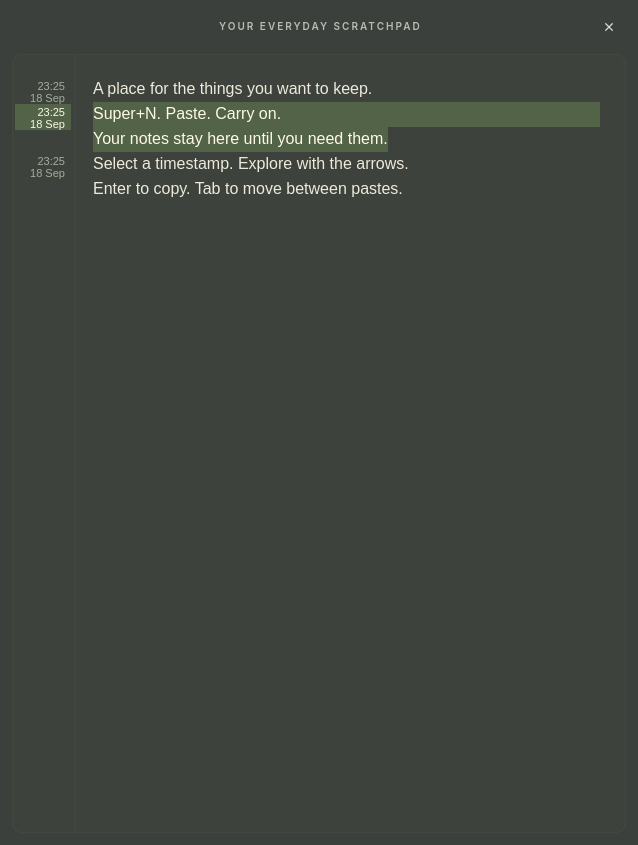
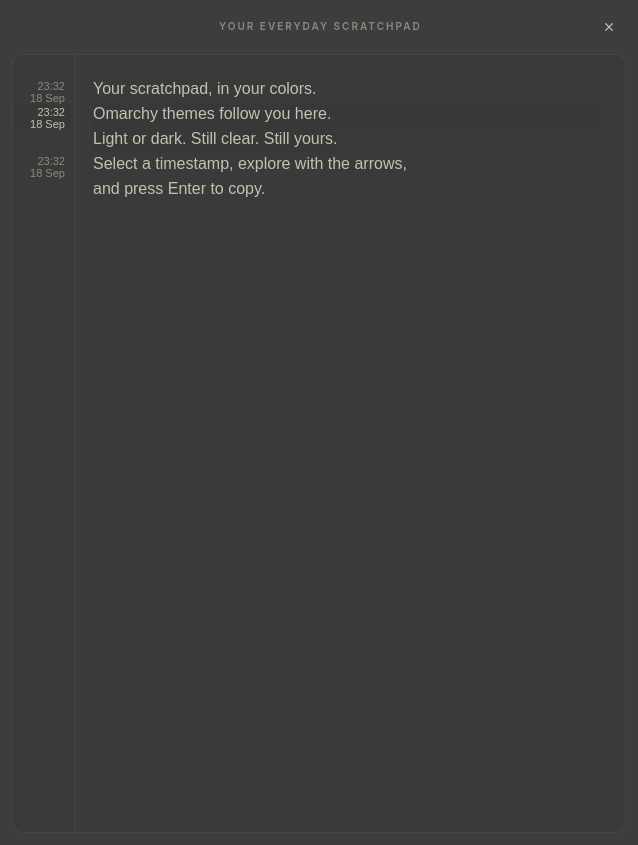
Follow the active Omarchy theme
Reload palette changes while running and keep note editing state intact.

Assisted-by: OpenAI Codex

Changed region(s): [[0.0, 0.0923, 0.953, 0.2462], [0.0596, 0.1846, 0.1191, 0.2154]]

diff --git a/style.css b/style.css
@@ -1,6 +1,6 @@
 window.perfect-note {
-    background: rgba(32, 37, 34, 0.88);
-    color: #eee9db;
+    background: alpha(@pn_background, 0.88);
+    color: @pn_foreground;
 }
 .perfect-note headerbar {
     background: transparent;
@@ -10,40 +10,40 @@ window.perfect-note {
     padding: 4px 12px;
 }
 .perfect-note .eyebrow {
-    color: #b8bbae;
+    color: @pn_muted;
     font-size: 10px;
     font-weight: 600;
     letter-spacing: 2px;
 }
 .perfect-note button {
-    background: #303730;
-    color: #dedfd2;
-    border: 1px solid #424b40;
+    background: @pn_surface;
+    color: @pn_foreground;
+    border: 1px solid @pn_border;
     border-radius: 8px;
     padding: 7px 13px;
     box-shadow: none;
     text-shadow: none;
     font-size: 12px;
 }
-.perfect-note button:hover { background: #414a40; }
+.perfect-note button:hover { background: mix(@pn_surface, @pn_foreground, 0.12); }
 .perfect-note headerbar button { background: transparent; border: 0; padding: 5px; }
-.perfect-note .error { color: #edafa0; font-size: 12px; margin: 0 20px 10px; }
+.perfect-note .error { color: @pn_error; font-size: 12px; margin: 0 20px 10px; }
 .perfect-note .paper {
     margin: 0 12px 12px;
-    border: 1px solid #42483d;
+    border: 1px solid @pn_border;
     border-radius: 10px;
-    background: rgba(72, 82, 58, 0.16);
+    background: alpha(@pn_surface, 0.16);
 }
 .perfect-note textview, .perfect-note textview text {
     background: transparent;
-    color: #eee9db;
-    caret-color: #d5e5b7;
+    color: @pn_foreground;
+    caret-color: @pn_accent;
     font-family: "Liberation Sans", sans-serif;
     font-size: 16px;
 }
-.perfect-note textview text selection { background: #526347; color: #fff8e8; }
+.perfect-note textview text selection { background: @pn_selection; color: @pn_selected; }
 .perfect-note .placeholder {
     margin: 26px 24px 26px 94px;
-    color: #a4ad9a;
+    color: @pn_muted;
     font-size: 16px;
 }

diff --git a/perfect_note.py b/perfect_note.py
@@ -5,6 +5,7 @@ import os
 import signal
 import sys
 import tempfile
+import tomllib
 from pathlib import Path
 from datetime import datetime
 
@@ -18,6 +19,78 @@ from gi.repository import Gdk, Gio, GLib, GLibUnix, Graphene, Gtk, Pango
 
 APP_ID = "io.github.sagosand.PerfectNote"
 DATA_DIR = Path(os.environ.get("XDG_DATA_HOME", Path.home() / ".local/share")) / "perfect-note"
+
+
+DEFAULT_PALETTE = {
+    "background": "#202522", "foreground": "#eee9db", "surface": "#48523a",
+    "border": "#42483d", "muted": "#a4ad9a", "accent": "#d5e5b7",
+    "selection": "#526347", "selected": "#fff8e8", "error": "#edafa0",
+}
+
+
+def theme_paths():
+    state = Path(os.environ.get("XDG_STATE_HOME") or Path.home() / ".local/state")
+    config = Path(os.environ.get("XDG_CONFIG_HOME") or Path.home() / ".config")
+    return (state / "omarchy/current/theme/colors.toml", config / "omarchy/current/theme/colors.toml")
+
+
+def color_channels(color):
+    return tuple(int(color[index:index + 2], 16) / 255 for index in (1, 3, 5))
+
+
+def mix_color(start, end, amount):
+    return "#" + "".join(f"{round((a * (1 - amount) + b * amount) * 255):02x}" for a, b in zip(color_channels(start), color_channels(end)))
+
+
+def contrast(first, second):
+    def luminance(color):
+        channels = [value / 12.92 if value <= 0.04045 else ((value + 0.055) / 1.055) ** 2.4 for value in color_channels(color)]
+        return sum(value * weight for value, weight in zip(channels, (0.2126, 0.7152, 0.0722)))
+    a, b = sorted((luminance(first), luminance(second)))
+    return (b + 0.05) / (a + 0.05)
+
+
+def readable_color(color, background, fallback):
+    if contrast(color, background) >= 4.5:
+        return color
+    if contrast(fallback, background) >= 4.5:
+        return fallback
+    return max(("#000000", "#ffffff"), key=lambda value: contrast(value, background))
+
+
+def read_theme(paths):
+    for path in paths:
+        try:
+            raw = tomllib.loads(path.read_text(encoding="utf-8"))
+        except FileNotFoundError:
+            continue
+        except (OSError, ValueError):
+            return None
+        colors = {}
+        for key, value in raw.items():
+            color = Gdk.RGBA()
+            if isinstance(value, str) and color.parse(value):
+                colors[key] = "#" + "".join(f"{round(channel * 255):02x}" for channel in (color.red, color.green, color.blue))
+        def pick(*keys, default=None):
+            return next((colors[key] for key in keys if key in colors), default)
+        background = pick("background", "bg", "color0")
+        foreground = pick("foreground", "fg", "color7")
+        if not background or not foreground:
+            return None
+        accent = pick("accent", "blue", "color4", default=foreground)
+        selection = pick("selection", "selection_background", "color8", default=mix_color(background, accent, 0.35))
+        return {
+            "background": background,
+            "foreground": foreground,
+            "surface": pick("lighter_background", "lighter_bg", default=mix_color(background, foreground, 0.08)),
+            "border": mix_color(background, foreground, 0.22),
+            "muted": readable_color(pick("light_foreground", "light_fg", "muted", default=foreground), background, foreground),
+            "accent": readable_color(accent, background, foreground),
+            "selection": selection,
+            "selected": readable_color(pick("selection_foreground", default=foreground), selection, foreground),
+            "error": readable_color(pick("red", "color1", default=foreground), background, foreground),
+        }
+    return None
 
 
 def write_note(path, text):
@@ -60,21 +133,21 @@ class NoteView(Gtk.TextView):
             return
         visible = self.get_visible_rect()
         color = Gdk.RGBA()
-        color.parse("#42483d")
+        color.parse(self.owner.palette["border"])
         rect = Graphene.Rect()
         rect.init(62, visible.y, 1, visible.height)
         snapshot.append_color(color, rect)
-        color.parse("#a4ad9a")
+        color.parse(self.owner.palette["muted"])
         for paste, y in self.owner.stamp_layout():
             if y + 26 < visible.y or y > visible.y + visible.height:
                 continue
             if paste is self.owner.marked_paste:
-                color.parse("#526347")
+                color.parse(self.owner.palette["selection"])
                 rect.init(2, y - 2, 56, 26)
                 snapshot.append_color(color, rect)
-                color.parse("#fff8e8")
+                color.parse(self.owner.palette["selected"])
             else:
-                color.parse("#a4ad9a")
+                color.parse(self.owner.palette["muted"])
             date = datetime.fromisoformat(paste["at"])
             layout = self.create_pango_layout(date.strftime("%H:%M\n%d %b"))
             layout.set_font_description(Pango.FontDescription("Sans 7"))
@@ -89,8 +162,12 @@ class NoteView(Gtk.TextView):
 
 
 class PerfectNote(Gtk.Application):
-    def __init__(self, data_dir=DATA_DIR, application_id=APP_ID):
+    def __init__(self, data_dir=DATA_DIR, application_id=APP_ID, palette_paths=None):
         super().__init__(application_id=application_id, flags=Gio.ApplicationFlags.DEFAULT_FLAGS)
+        self.palette_paths = theme_paths() if palette_paths is None else palette_paths
+        self.palette = None
+        self.theme_source = 0
+        self.style_provider = None
         self.note_path = data_dir / "note.txt"
         self.state_path = data_dir / "note.json"
         self.pastes = []
@@ -115,7 +192,7 @@ class PerfectNote(Gtk.Application):
         self.save_source = 0
         self.dirty = False
         self.load_error = False
-        self.connect("shutdown", lambda *_: self.save())
+        self.connect("shutdown", self.shutdown)
 
     def do_activate(self):
         if self.window is None:
@@ -123,16 +200,42 @@ class PerfectNote(Gtk.Application):
         elif self.window.get_visible():
             self.hide()
             return
+        self.refresh_theme()
         self.prepare_line()
         self.window.present()
         self.editor.grab_focus()
         self.queue_gutter()
         GLib.idle_add(self.scroll_to_cursor)
 
+    def refresh_theme(self):
+        palette = read_theme(self.palette_paths) or self.palette or DEFAULT_PALETTE.copy()
+        if palette != self.palette:
+            definitions = "\n".join(f"@define-color pn_{key} {value};" for key, value in palette.items())
+            self.style_provider.load_from_data((definitions + "\n" + self.style_css).encode())
+            self.palette = palette
+            if self.window is not None:
+                self.editor.queue_draw()
+        return GLib.SOURCE_CONTINUE
+
+    def stop_theme(self):
+        if self.theme_source:
+            GLib.source_remove(self.theme_source)
+            self.theme_source = 0
+        if self.style_provider is not None:
+            Gtk.StyleContext.remove_provider_for_display(Gdk.Display.get_default(), self.style_provider)
+            self.style_provider = None
+
+    def shutdown(self, *_):
+        self.save()
+        self.stop_theme()
+
     def build_window(self):
-        provider = Gtk.CssProvider()
-        provider.load_from_path(str(Path(__file__).with_name("style.css")))
-        Gtk.StyleContext.add_provider_for_display(Gdk.Display.get_default(), provider, Gtk.STYLE_PROVIDER_PRIORITY_APPLICATION)
+        self.style_css = Path(__file__).with_name("style.css").read_text(encoding="utf-8")
+        self.style_provider = Gtk.CssProvider()
+        self.refresh_theme()
+        Gtk.StyleContext.add_provider_for_display(Gdk.Display.get_default(), self.style_provider, Gtk.STYLE_PROVIDER_PRIORITY_APPLICATION)
+        # Omarchy replaces the theme directory, so re-open the path on each check.
+        self.theme_source = GLib.timeout_add_seconds(2, self.refresh_theme)
         self.window = Gtk.ApplicationWindow(application=self, title="Perfect Note")
         self.window.set_default_size(638, 845)
         self.window.set_size_request(420, 440)

diff --git a/check.py b/check.py
@@ -24,10 +24,10 @@ sys.excepthook = callback_exception
 
 instances = 0
 
-def create(root, application_id=None):
+def create(root, application_id=None, palette_paths=()):
     global instances
     instances += 1
-    app = PerfectNote(root, application_id or f'io.github.sagosand.PerfectNote.Check{instances}')
+    app = PerfectNote(root, application_id or f'io.github.sagosand.PerfectNote.Check{instances}', palette_paths=palette_paths)
     app.set_flags(Gio.ApplicationFlags.NON_UNIQUE)
     app.register(None)
     app.build_window()
@@ -272,6 +272,7 @@ with tempfile.TemporaryDirectory(prefix='perfect-note-stamps-check-') as directo
     assert selected() == 'alpha\n\nbeta', 'Left from the first word returns to the segment'
     nav.hide()
     for instance in (app, app2, app3, nav):
+        instance.stop_theme()
         instance.window.destroy()
 print('PASS: migration, one stamp per paste, Unicode, position tracking, delete/undo/redo, autosave, restart, backups, errors, segment/word navigation, copy, delete, click, vertical/wrapped navigation, Tab cycling')
 
@@ -536,7 +537,61 @@ with tempfile.TemporaryDirectory(prefix='perfect-note-audit-') as directory:
         if app.gutter_source:
             GLib.source_remove(app.gutter_source)
             app.gutter_source = 0
+        app.stop_theme()
         app.window.destroy()
 print(f'PASS: audit regressions, delayed clipboard, safe persistence, Unicode, grouped undo, and {cycles} randomized edit/undo/redo cycles')
+
+with tempfile.TemporaryDirectory(prefix='perfect-note-theme-check-') as directory:
+    from perfect_note import DEFAULT_PALETTE, read_theme, contrast
+    root = Path(directory)
+    theme = root / 'theme'
+    theme.mkdir()
+    colors = theme / 'colors.toml'
+    themed = create(root / 'note', palette_paths=(colors,))
+    assert themed.palette == DEFAULT_PALETTE
+    themed.insert_paste('The selected words and their timestamp must survive a theme switch.')
+    themed.select_paste(0)
+    themed.select_word(2)
+    before = (themed.text(), copy.deepcopy(themed.pastes), themed.marked_word,
+              tuple(i.get_offset() for i in themed.buffer.get_selection_bounds()), themed.history_position)
+    css_errors = []
+    themed.style_provider.connect('parsing-error', lambda provider, section, error: css_errors.append(error))
+    colors.write_text('background = "#181818"\nforeground = "#eeeeee"\naccent = "#55aaff"\n')
+    deadline = time.monotonic() + 4
+    while themed.palette['background'] != '#181818' and time.monotonic() < deadline:
+        settle()
+    assert themed.palette['background'] == '#181818', 'live theme timer did not reload while hidden'
+    assert not themed.window.get_visible()
+    theme.rename(root / 'old-theme')
+    themed.refresh_theme()
+    assert themed.palette['background'] == '#181818', 'missing theme discarded last good palette'
+    theme.mkdir()
+    colors.write_text('background = "#fafafa"\nforeground = "#202020"\nselection = "#222222"\nmuted = "#dddddd"\n')
+    deadline = time.monotonic() + 4
+    while themed.palette['background'] != '#fafafa' and time.monotonic() < deadline:
+        settle()
+    assert themed.palette['background'] == '#fafafa', 'directory replacement stopped live theme updates'
+    assert contrast(themed.palette['selected'], themed.palette['selection']) >= 4.5
+    assert contrast(themed.palette['muted'], themed.palette['background']) >= 4.5
+    after = (themed.text(), copy.deepcopy(themed.pastes), themed.marked_word,
+             tuple(i.get_offset() for i in themed.buffer.get_selection_bounds()), themed.history_position)
+    assert after == before, 'theme change disturbed editing state'
+    good = themed.palette.copy()
+    for content in ('background = [', 'background = "#333333"', 'background = "bad; }"\nforeground = "#eeeeee"'):
+        colors.write_text(content)
+        themed.refresh_theme()
+        assert themed.palette == good, 'invalid theme discarded last good palette'
+    colors.write_text('bg = "#101010"\nfg = "#f0f0f0"\ncolor4 = "#33aaff"\nselection_background = "#444444"\n')
+    themed.refresh_theme()
+    assert themed.palette['background'] == '#101010' and themed.palette['selection'] == '#444444'
+    legacy = root / 'legacy.toml'
+    colors.rename(legacy)
+    assert read_theme((colors, legacy))['foreground'] == '#f0f0f0'
+    assert not css_errors, css_errors
+    themed.shutdown()
+    assert themed.theme_source == 0 and themed.style_provider is None
+    assert themed.note_path.read_text() == before[0]
+    themed.window.destroy()
+print('PASS: live dark/light themes, directory replacement, legacy colors, contrast, invalid themes, and editing-state preservation')
 
 assert not callback_errors, callback_errors

diff --git a/README.md b/README.md
@@ -19,7 +19,7 @@ git clone https://github.com/sagosand/perfect_note.git ~/Work/perfect_note
 /usr/bin/python3 ~/Work/perfect_note/perfect_note.py
 ```
 
-Run the same command again to show or hide the existing instance. Closing the window hides it; it starts on demand, so no login service is required. Use the system Python rather than an isolated virtual environment so it can find PyGObject.
+Run the same command again to show or hide the existing instance. Closing the window hides it; it starts on demand, so no login service is required. Requires Python 3.11 or newer. Use the system Python rather than an isolated virtual environment so it can find PyGObject.
 
 ### Super+N and the floating window
 
@@ -72,6 +72,10 @@ Edits save after 150 ms of inactivity and immediately when hiding. The complete 
 Saving is silent. If saving fails, the window stays open with an error; Ctrl+S retries. A normal termination request also waits for saving to succeed. Invalid saved data is left untouched and opened read-only; backup-write failures do not prevent reading a valid note. This is a text scratchpad, with no clipboard monitoring or cloud service.
 
 ## Appearance
+
+Perfect Note follows your active Omarchy palette automatically, including light themes. Background, text, timestamps, borders, cursor, and selections update within about two seconds of a theme change, even while the window is hidden. No hook or restart is needed. Selection text and small labels get a contrast fallback when needed.
+
+It reads `~/.local/state/omarchy/current/theme/colors.toml`, with the older `~/.config/omarchy/current/theme/colors.toml` location as a fallback, respecting `XDG_STATE_HOME` and `XDG_CONFIG_HOME`. If no usable theme is available at startup, the original dark palette is used. A missing or invalid theme during a switch keeps the last working palette.
 
 The window is 638 x 845 pixels. Background transparency is defined in `style.css`: the window uses 88% opacity and the paper adds a light tint. Text, timestamps, and selection highlights remain opaque. This works without compositor blur. For a solid background, change the window alpha from `0.88` to `1.0`.
 
